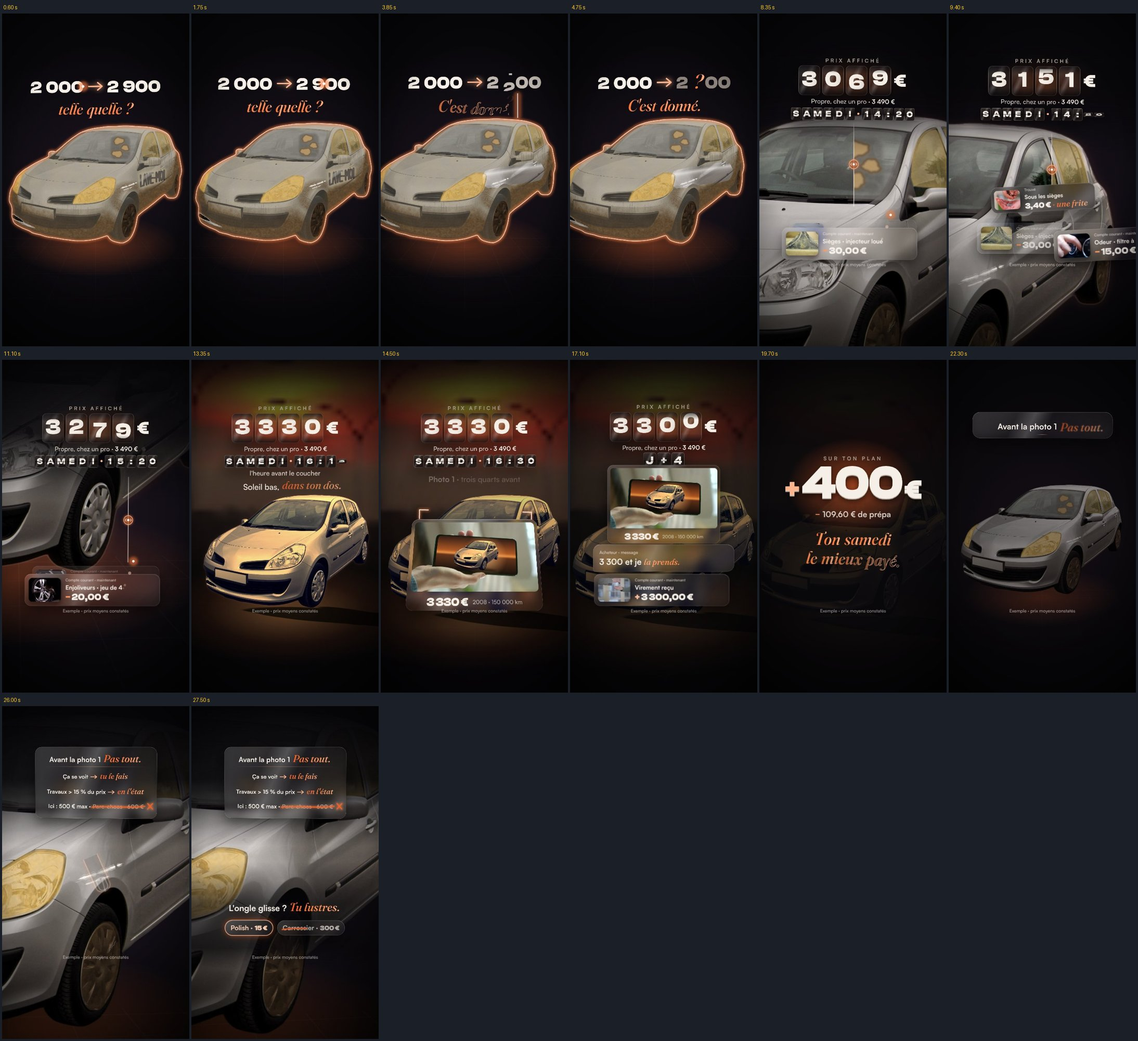
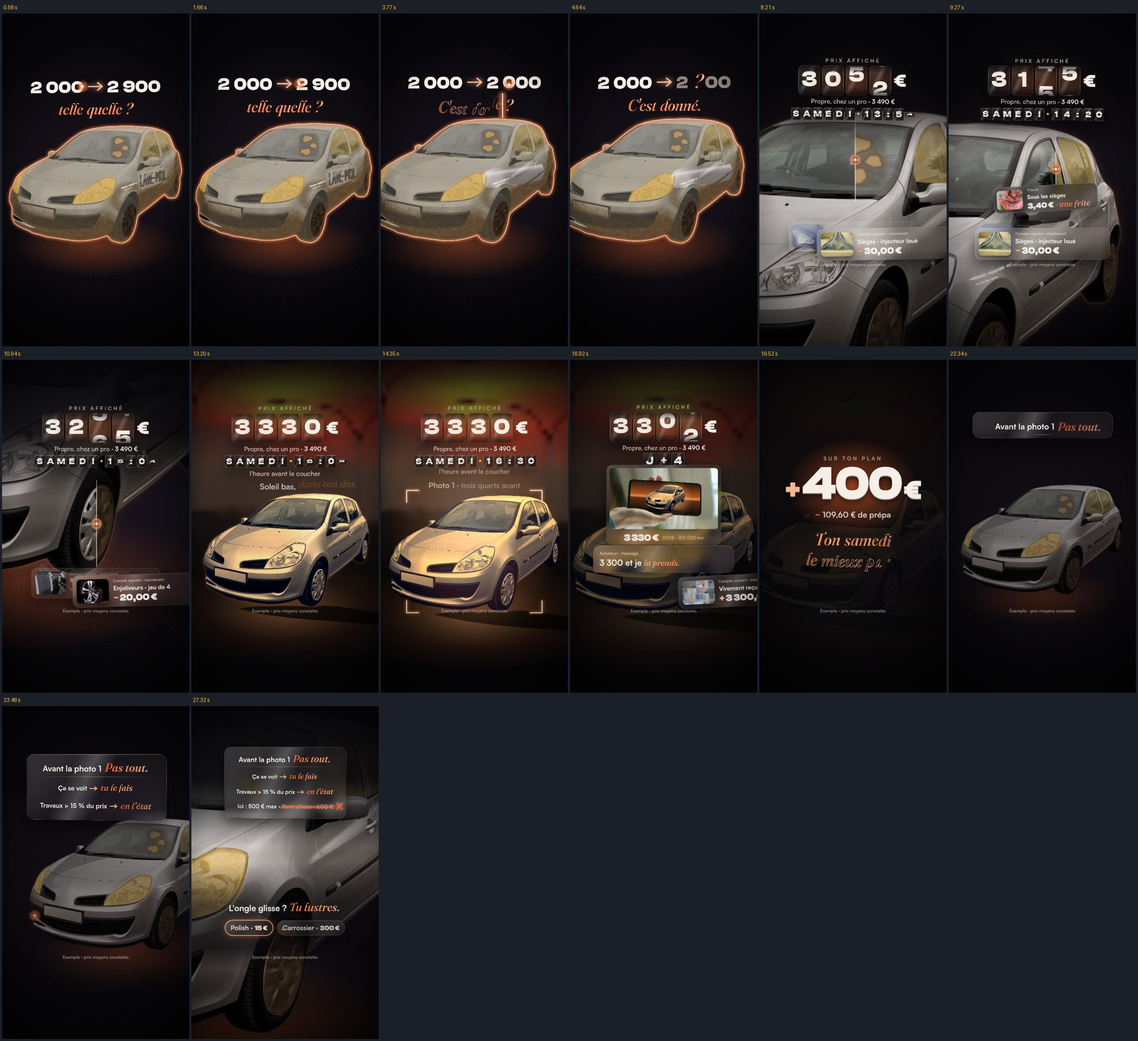
MO11-MO12 : passe finale sur la vraie voix (gestes recalés, lisibilité à 360 px, zones sûres) ; MO12 : compresseur de crête sur la voix, le limiteur ne coupe plus de 6 dB qu'à 4 endroits (85 avant)
Claude-Session: https://claude.ai/code/session_01HUWJocHZZKJjmrqnNE99x4

diff --git a/video/film-mo12/film.js b/video/film-mo12/film.js
@@ -24,9 +24,9 @@
     shake: M('onze'),                     // la bulle « Je suis devant. » vibre
     sonne: M('sonne') - 0.03,             // elle pulse sur « sonne »
     roll: M('vingt') - 0.04,              // 11:00 → 11:20 sur « vingt »
-    stamp: M('vingt') + 0.32,             // VENDUE frappe l'étiquette (avant la mesure à 3 s)
-    go: M('vendue') + 0.05,               // la C3 garde VENDUE à l'arrêt 0,65 s, puis sort par la gauche sur « vendue »
-    bf: M('beaufrere') - 0.28,            // bulle du beau-frère : elle entre par la droite pendant que la C3 sort à gauche
+    stamp: M('vendue') - 0.08,            // VENDUE frappe l'étiquette sur « vendu » (2,64 s, avant la mesure à 3 s ; voix réelle)
+    go: ME('vendue') + 0.05,              // la C3 garde VENDUE à l'arrêt 0,45 s, puis sort par la gauche une fois « vendu. » dit
+    bf: Math.max(M('beaufrere') - 0.28, ME('vendue') + 0.43),   // bulle du beau-frère : elle entre par la droite quand la C3 a presque quitté l'image (3,48 s)
     croit: M('croit'),                    // « il n'y croit pas » : sa bulle tremble (comme le gag)
     ask: M('demande') - 0.05,             // la bulle : « Les papiers ? » (« Il demande les papiers »)
     blur: M('papiers') + 0.05,            // la caméra plonge, la C3 passe en décor flou
@@ -53,8 +53,11 @@
   T.c = T.q.map((x) => x - 0.1);
   const REW = [ME('chaud') + 0.3, M('mardi') - 0.1];        // grand rembobinage jusqu'au mardi d'avant (1,1 s)
   T.flaps = REW[1] - 0.5; T.pochM = REW[1] - 0.15;
-  T.m = [0, 1, 2, 3, 4].map((i) => T.mardi + 0.45 + 0.5 * i); // cinq cartes entrent dans la pochette, une par temps
-  T.l2 = Math.max(T.l2, T.m[4] + 0.36 + 0.3);                 // la liste grandit une fois la 5e carte posée (25,16 s)
+  // cinq cartes entrent dans la pochette, une par temps (la grille de la reprise part de T.m[0] − 0,5 : audio-mo12.py) ;
+  // voix réelle : la première entre sur « Mardi » (0,22 s après au lieu de 0,45) pour que la 5e soit posée vers « deux ans »
+  // (pas plus serré : à 0,45 s, la note d'une carte tombe à 0,09 s du « rangée » de la précédente, que le mix retire)
+  T.m = [0, 1, 2, 3, 4].map((i) => T.mardi + 0.22 + 0.5 * i);
+  T.l2 = Math.max(T.l2, T.m[4] + 0.36 + 0.3);                 // la liste grandit une fois la 5e carte posée (25,06 s)
   T.eclair = M('tu') + 0.25;   // « tu le refais » : le bandeau « Contrôle · 78 € » pulse et s'allume (nom gardé pour le son)
   T.close = ME('refais') - 0.25; T.pret = ME('refais') - 0.02;
 
@@ -202,7 +205,7 @@
 
   // ---------- B : la bulle de l'acheteur, la bulle du beau-frère, la tasse ----------
   const LB = el('div', 'L', stage);
-  const BUB = { x: 250, y: 528, h: 104 };
+  const BUB = { x: 215, y: 528, h: 104, s: 1.22 };   // échelle 1,22 : « Je suis devant. » à 16 px sur un écran de 360 px
   const ripple = el('div', 'ripple', LB, `height:${BUB.h}px`);
   const bub = el('div', 'glass bub', LB, `height:${BUB.h}px`); el('div', 'sheen', bub);
   el('div', 'n', bub).textContent = 'Acheteur';
@@ -213,8 +216,8 @@
   const QK = [[0, QW[0]], ...QIN.slice(1).map((x, i) => [x, QW[i + 1], P.flip])];
   const bfW = KP.textW('700 40px Satoshi', '20 min ? ') + KP.textW('italic 500 46px Fraunces', 'Impossible.') + 70;
   const bf = el('div', 'glass bub', LB, `width:${f3(bfW)}px;height:${BUB.h}px;border-radius:34px 34px 10px 34px;transform-origin:50% 50%`); el('div', 'sheen', bf);
-  el('div', 'n', bf).textContent = 'Beau-frère';
-  el('div', 't', bf).innerHTML = '20 min ? <span class="serif" style="font-size:46px;font-weight:500">Impossible.</span>';
+  const bfN = el('div', 'n', bf); bfN.textContent = 'Beau-frère';
+  const bfT = el('div', 't', bf); bfT.innerHTML = '20 min ? <span class="serif" style="font-size:46px;font-weight:500">Impossible.</span>';
   // la tasse au trait de lumière (même épaisseur que le contour de la voiture), deux volutes à graine fixe, périodiques
   function cup(parent, id) {
     const s = sv('svg', { width: 200, height: 240, viewBox: '-40 -80 200 240', style: 'position:absolute;left:0;top:0;overflow:visible;transform-origin:0 0' }, parent);
@@ -287,7 +290,7 @@
   const svgT = sv('svg', { width: 1080, height: 1920, viewBox: '0 0 1080 1920', style: 'position:absolute;left:0;top:0;overflow:visible' }, LT); defs(svgT, 't');
   const wChaud = word(svgT, 'encore chaud.', '500 100px Fraunces', 100, 540, 1218, { italic: true, fill: 'url(#qgt)', strokeColor: '#ffb38a', sw: 1.8 });
 
-  const mention = el('div', 'abs', stage, 'left:0;width:1080px;top:1432px;text-align:center;font:500 26px Satoshi;color:rgba(246,239,231,.55);white-space:nowrap'); mention.textContent = 'Exemple · prix moyens constatés';
+  const mention = el('div', 'abs', stage, 'left:0;width:1080px;top:1428px;text-align:center;font:500 32px Satoshi;color:rgba(246,239,231,.72);white-space:nowrap'); mention.textContent = 'Exemple · prix moyens constatés';
   const rewFx = el('div', 'L', stage, 'background:repeating-linear-gradient(0deg,rgba(255,255,255,.06) 0 2px,transparent 2px 6px);mix-blend-mode:screen');
   const flash = el('div', 'L', stage, 'background:radial-gradient(60% 45% at 50% 50%,#fff1e6,rgba(255,140,80,.6) 45%,transparent 75%);mix-blend-mode:screen');
   el('div', '', stage).id = 'grain'; el('div', '', stage).id = 'vign';
@@ -370,6 +373,9 @@
         // une carte qui sort de la pochette : son texte n'entre qu'une fois la carte sortie et passée devant (a ≥ 0,95 : jamais
         // lu à travers le verre des autres, ni coupé par la carte qui descend d'une case, round 3)
         if (s.from === 'p') { const tk = sm(0.95, 1, a); for (const e of [s.d.name.e, s.d.value.e]) e.style.opacity = f3(+e.style.opacity * tk); }
+        // une carte qui glisse depuis la droite : son texte n'entre qu'une fois sorti du masque de x = 920 (plus de « en cour »
+        // coupé à 9,7 s) ; il glisse avec la carte
+        if (s.from === 'r') { const tk = sm(0.75, 0.92, a); for (const e of [s.d.name.e, s.d.value.e]) e.style.opacity = f3(+e.style.opacity * tk); }
         // la carte se replie en bandeau en passant le liseré de la pochette (k de 2 à 3) : son texte sort au début du
         // repli et revient une fois le bandeau rangé (règle du conteneur qui se transforme, comme au mardi)
         s.fold = sm(2.02, 2.2, k) * (1 - sm(2.8, 2.98, k));
@@ -420,7 +426,7 @@
     const bw = track(st, QK), bPres = pres * (1 - sm(T.phone - 0.05, T.phone + 0.2, st));
     set(bub, bPres);
     bub.style.width = `${f3(bw)}px`;
-    bub.style.transform = `translate(${f3(BUB.x + shake)}px,${f3(BUB.y - 70 * bOut + 40 * (1 - pres))}px) scale(${f3((1 + 0.1 * pulse) * (1 - 0.12 * bOut) * (0.92 + 0.08 * pres))})`;
+    bub.style.transform = `translate(${f3(BUB.x + shake)}px,${f3(BUB.y - 70 * bOut + 40 * (1 - pres))}px) scale(${f3(BUB.s * (1 + 0.1 * pulse) * (1 - 0.12 * bOut) * (0.92 + 0.08 * pres))})`;
     const qPop = Math.max(...QIN.slice(1).map((x) => bump(st, x, 0.22)));
     if (qPop > 0) bub.style.transform += ` scale(${f3(1 + 0.04 * qPop)})`;
     qEl.forEach((e, j) => {
@@ -430,15 +436,16 @@
     });
     const rp = clamp((hk - T.sonne) / 0.5, 0, 1);
     set(ripple, (rp > 0 && rp < 1 ? 0.9 * (1 - rp) : 0) * bPres); ripple.style.width = `${f3(bw)}px`;
-    ripple.style.transform = `translate(${f3(BUB.x)}px,${BUB.y}px) scale(${f3(1 + 0.5 * rp)})`;
+    ripple.style.transform = `translate(${f3(BUB.x + bw * (BUB.s - 1) / 2)}px,${f3(BUB.y - BUB.h * (BUB.s - 1) / 2)}px) scale(${f3(BUB.s * (1 + 0.5 * rp))})`;
     const bfa = S(hk, T.bf, P.card);
     set(bf, sm(T.bf - 0.02, T.bf + 0.06, hk));
     const btr = bump(t, T.croit, 0.32), bjx = noise(24, t * 11) * 8 * btr;   // temps du film : le tremblement ne rejoue pas au retour court
     const BFS = 1.35, bfX = 540 - bfW / 2 + 380 * (1 - bfa) + bjx;
     bf.style.transform = `translate(${f3(bfX)}px,900px) rotate(${f3(-4 - 6 * (1 - bfa) + noise(23, t * 9) * 2.2 * btr)}deg) scale(${BFS})`;
     clipX(bf, bfX + bfW * (1 - BFS) / 2, bfX + bfW * (1 + BFS) / 2 + 10, BFS);
+    { const k = f3(sm(0.72, 0.9, bfa)); bfN.style.opacity = k; bfT.style.opacity = k; }   // texte entier une fois sorti du masque (jamais « Impossib »)
     const cOut = S(st, T.c[0] - 0.15, P.push);
-    paintCup(cupA, { x: 700 + 120 * cOut, y: 542 + 30 * (1 - pres) - 40 * cOut, sc: 0.86 * (1 - 0.2 * cOut) * (0.9 + 0.1 * pres), k: pres * (1 - sm(T.c[0] - 0.1, T.c[0] + 0.15, st)), t });
+    paintCup(cupA, { x: 745 + 120 * cOut, y: 542 + 30 * (1 - pres) - 40 * cOut, sc: 0.86 * (1 - 0.2 * cOut) * (0.9 + 0.1 * pres), k: pres * (1 - sm(T.c[0] - 0.1, T.c[0] + 0.15, st)), t });
 
     // M : mardi, la pochette se remplit
     const mOut = t < LOOP ? 0 : S(t, LOOP - 0.02, P.push), mK = sm(REW[1] - 0.3, REW[1] - 0.1, t) * (1 - sm(LOOP + 0.22, LOOP + 0.36, t));   // il monte et rapetisse d'abord, puis disparaît
@@ -457,7 +464,8 @@
           ring: [S(t, t0 + 0.05, P.draw), sm(t0 + 0.04, t0 + 0.1, t) * (1 - sm(t0 + 0.5, t0 + 0.7, t))] });
         // la carte se replie en bandeau en tombant sur les autres : son texte sort au début du repli et ne revient qu'à la
         // fin de la chute (dr ≥ 0,9 : moins de 35 px au-dessus de sa place, jamais sur le texte du bandeau d'au-dessus)
-        const dk = 1 - sm(0.02, 0.22, dr) * (1 - sm(0.9, 1, dr));
+        // et à l'entrée par la droite, il n'apparaît qu'une fois sorti du masque de x = 920 (plus de « Situation adr » coupé)
+        const dk = (1 - sm(0.02, 0.22, dr) * (1 - sm(0.9, 1, dr))) * sm(0.75, 0.92, a);
         if (dk < 0.999) for (const e of [d.name.e, d.value.e]) e.style.opacity = f3(+e.style.opacity * dk);
         // « Contrôle : » (pendant que la carte grise entre en haut), puis « tu le refais » : le bandeau du contrôle pulse,
         // « 6 mois » grossit

diff --git a/video/film-mo11/film.js b/video/film-mo11/film.js
@@ -25,14 +25,21 @@
     lav: ME('heures') - 0.05,                                                  // le lavage part quand « treize heures » finit
     si: M('sieges') - 0.33, od: M('odeur') - 0.2, en: LT('enjo').t - 0.2,      // l'arrêt de la ligne tombe sur le mot
     sun0: M('etla') - 0.3, sun1: ME('soleil') + 0.02, sbas: M('etla') + 0.4, heure: M('soleil') - 0.35,
-    vf: ME('soleil') - 0.04, lab1: M('photo') - 0.06, click: M('un') - 0.1,
-    ann: M('un') + 0.16, j4: M('un') + 0.3, msg1: ME('un') + 0.5, msg2: M('n400') - 1.25,   // « Quatre jours. » retiré
+    vf: ME('soleil') - 0.04, lab1: M('photo') - 0.06, click: Math.max(M('un') - 0.1, M('photo') + 0.27),
+    msg1: ME('un') + 0.5, msg2: M('n400') - 1.25,                       // « Quatre jours. » retiré
     bubble: M('n400') - 1.0, credit: M('n400') - 0.12,                                         // (round 2) : J+4 le dit
     big: M('plus') - 0.12, prepa: M('plus') + 0.25,
     pay1: M('ton2') - 0.03, pay2: M('mieux') - 0.2,
     ceux: M('ceux') - 0.04, pas: M('pas') - 0.04,
     nail: M('glisse') + 0.04, verd: ME('rayure') + 0.06, pol: M('quinze') + 0.04, carr: M('polish') - 0.03,
   };
+  // passe finale (voix de Simon) : « Photo » et « 1 » ne sont plus qu'à 0,1 s l'un de l'autre. Le déclic attend
+  // 0,27 s après « Photo » (il tombe dans « 1, ») et l'annonce garde ses 0,26 s après lui : l'étiquette « Photo 1 · trois
+  // quarts avant » reste lisible 0,4 s au lieu de 0,25. « l'heure avant le coucher » entrait avec « Soleil bas, » :
+  // elle reprend ses 0,32 s de retard sur lui (sur « soleil »). Les palettes de J+4 (T.j4 + 0,16 → + 0,34) finissent
+  // plus de 0,12 s avant « Belle photo… » : sinon audio-mo11.py retire trois de leurs quatre tics pour collision.
+  T.ann = T.click + 0.26; T.j4 = T.click + 0.34; T.msg1 = Math.max(T.msg1, T.j4 + 0.48);
+  T.heure = Math.max(T.heure, T.sbas + 0.6);
   T.ph = (T.lav + T.si) / 2; T.ra = (T.od + T.en) / 2;
   T.gag = (T.si + 0.7 + T.od) / 2 + 0.05;
   T.l = [ME('tout') + 0.02, ME('tout') + 0.52, ME('tout') + 1.02];
@@ -425,16 +432,24 @@
   // ---------- le renversement : la carte « Avant la photo 1 », puis l'ongle et le verdict ----------
   const LC = el('div', 'L', stage);
   const fit = (parts, max) => { let k = 1; const w = () => parts.reduce((s, [txt, font, size]) => s + (mcv.font = font.replace('SZ', size * k), mcv.measureText(txt).width), 0); while (w() > max) k -= 0.02; return k; };
+  // passe finale, lisibilité à 360 px : dans les notifications, la ligne de l'app passe de 22 à 26 px (7 → 9 px au
+  // téléphone) et le titre de 34 à 40 px au plus, réduit d'un seul facteur pour que le plus long tienne dans 500 px
+  const kN = Math.min(...[...COUPS.map((c) => c.ti), 'Virement reçu'].map((x) => fit([[x, '700 SZpx Satoshi', 40]], 500)));
+  for (const d of [...debs.map((x) => x.n.d), credit.d]) {
+    const ap = d.querySelector('.app'), ti = d.querySelector('.ti'), am = d.querySelector('.am');
+    ap.style.cssText = 'font-size:26px;line-height:1.15;margin-bottom:2px;color:rgba(246,239,231,.8)';
+    ti.style.cssText = `font-size:${f3(40 * kN)}px;line-height:1.15`; am.style.lineHeight = '1.05';
+  }
   const ARW = '<svg width="46" height="26" viewBox="0 0 46 26" style="display:inline-block;vertical-align:middle;margin:0 14px 6px"><path d="M2 13 H40 M29 3 L42 13 L29 23" stroke="#ffb38a" stroke-width="4.5" fill="none" stroke-linecap="round" stroke-linejoin="round"/></svg>';
   const cardW = el('div', 'abs', LC, 'left:0;top:0;width:1080px;height:1920px;transform-origin:540px 300px');
-  const card = el('div', 'glass card', cardW, 'left:140px;top:300px;width:800px;height:470px'); el('div', 'sheen', card);
+  const card = el('div', 'glass card', cardW, 'left:150px;top:300px;width:780px;height:470px'); el('div', 'sheen', card);
   const kT = fit([['Avant la photo 1', '700 SZpx Satoshi', 46], ['Pas tout.', 'italic 500 SZpx Fraunces', 66]], 640);
   const cT = el('div', 'abs', cardW, `left:140px;top:334px;width:800px;text-align:center;white-space:nowrap;font:700 ${f3(46 * kT)}px Satoshi`);
   const cT1 = el('span', '', cT, 'display:inline-block'); cT1.textContent = 'Avant la photo 1';
   const cT2 = el('span', 'serif', cT, `display:inline-block;font-size:${f3(66 * kT)}px;margin-left:14px`); cT2.textContent = 'Pas tout.';
   const rule = el('div', 'abs', cardW, 'left:200px;top:428px;width:680px;height:2px;background:linear-gradient(90deg,transparent,rgba(255,179,138,.6),transparent);transform-origin:50% 50%');
   const LINES = [['Ça se voit', 'tu le fais'], ['Travaux > 15 % du prix', "en l'état"], ['Ici : 500 € max ·', 'Pare-chocs · 600 €']];
-  const kL = Math.min(...LINES.map(([a, b], i) => fit([[a, '700 SZpx Satoshi', 40], [b, (i < 2 ? 'italic 500 SZpx Fraunces' : '700 SZpx Satoshi'), i < 2 ? 54 : 40], ['→→', '700 SZpx Satoshi', 40]], 700)));
+  const kL = Math.min(...LINES.map(([a, b], i) => fit([[a, '700 SZpx Satoshi', 40], [b, (i < 2 ? 'italic 500 SZpx Fraunces' : '700 SZpx Satoshi'), i < 2 ? 54 : 40], ['→→', '700 SZpx Satoshi', 40]], 720)));
   const lines = LINES.map(([a, b], i) => {
     const r = el('div', 'abs', cardW, `left:140px;top:${452 + i * 100}px;width:800px;text-align:center;white-space:nowrap;font:700 ${f3(40 * kL)}px Satoshi;line-height:76px`);
     const s1 = el('span', '', r, 'display:inline-block'); s1.innerHTML = i < 2 ? a + ARW : a;
@@ -457,7 +472,7 @@
   const pSw = el('div', 'abs', pPol, 'left:0;top:0;width:100%;height:100%;border-radius:999px;mix-blend-mode:screen');   // le lustre passe
   const pcL = sv('path', { d: 'M4 24 C 120 8, 260 30, 396 12', stroke: '#ff5a1f', 'stroke-width': 7, fill: 'none', 'stroke-linecap': 'round', 'stroke-dasharray': '420 420', 'stroke-dashoffset': 420 }, pcSvg);
 
-  const mention = el('div', 'abs', stage, 'left:0;width:1080px;top:1430px;text-align:center;font:500 26px Satoshi;color:rgba(246,239,231,.55)'); mention.textContent = 'Exemple · prix moyens constatés';
+  const mention = el('div', 'abs', stage, 'left:0;width:1080px;top:1428px;text-align:center;font:500 28px Satoshi;color:rgba(246,239,231,.66)'); mention.textContent = 'Exemple · prix moyens constatés';
   const rewFx = el('div', 'L', stage, 'background:repeating-linear-gradient(0deg,rgba(255,255,255,.06) 0 2px,transparent 2px 6px);mix-blend-mode:screen');
   const flash = el('div', 'L', stage, 'background:radial-gradient(60% 45% at 50% 52%,#fff1e6,rgba(255,140,80,.6) 45%,transparent 75%);mix-blend-mode:screen');
   const grain = el('div', '', stage); grain.id = 'grain'; el('div', '', stage).id = 'vign';
@@ -813,7 +828,7 @@
     const cdr = sm(T.card, T.card + 0.8, t);                                       // dérive lente : la carte ne se fige pas
     // parallaxe : la carte tourne en sens inverse de l'orbite (− 0,5 ×) et monte de 12 px à chaque règle (la voiture, 6)
     const cRy = -0.5 * (c.ry - 1) * cIn * (1 - cmp), cNy = -12 * lineNudge(t) * (1 - cmp);
-    cardW.style.transform = `translateY(${f3((1 - cIn) * 240 - 64 * cmp + 90 * cOut + cNy - 10 * cdr * (1 - cmp) * noise(31, t * 0.35))}px) perspective(1500px) rotateX(${f3((1 - cIn) * 24 + 1.6 * cdr * noise(32, t * 0.3))}deg) rotateY(${f3(cRy + 2.2 * cdr * noise(33, t * 0.27))}deg) scale(${f3((0.94 + 0.06 * cIn) * (1 - 0.12 * cmp) * (1 - 0.45 * cOut) * (1 + 0.012 * cdr * (1 - cmp)))})`;
+    cardW.style.transform = `translateY(${f3((1 - cIn) * 240 - 64 * cmp + 90 * cOut + cNy - 10 * cdr * (1 - cmp) * noise(31, t * 0.35))}px) perspective(1500px) rotateX(${f3((1 - cIn) * 24 + 1.6 * cdr * noise(32, t * 0.3))}deg) rotateY(${f3(cRy + 2.2 * cdr * noise(33, t * 0.27))}deg) scale(${f3((0.94 + 0.06 * cIn) * (1 - 0.04 * cmp) * (1 - 0.45 * cOut) * (1 + 0.012 * cdr * (1 - cmp)))})`;
     const tt1 = S(t, T.ceux + 0.1, P.rise), tt2 = S(t, T.pas, P.rise);
     cT1.style.opacity = f3(tt1); cT1.style.transform = `translate(${f3(hT2 * (1 - tt2))}px,${f3((1 - tt1) * 22)}px)`;
     cT2.style.opacity = f3(tt2); cT2.style.transform = `translate(${f3(hT2 * (1 - tt2))}px,${f3((1 - tt2) * 26)}px)`; cT2.style.filter = `blur(${f3((1 - tt2) * 6)}px)`;   // round 3 : glisse avec cT1

diff --git a/video/film-mo12/index.html b/video/film-mo12/index.html
@@ -50,7 +50,7 @@ html,body{width:1080px;height:1920px;overflow:hidden;background:var(--bg0)}
 .kp-badge{position:absolute;left:0;top:0;transform-origin:0 0}
 .kp-badge svg{position:absolute;left:0;top:0;overflow:visible}
 .kp-num{position:absolute;left:0;top:22px;width:100%;text-align:center;font:700 46px Clash;line-height:46px;font-variant-numeric:tabular-nums}
-.kp-unit{position:absolute;left:0;top:66px;width:100%;text-align:center;font:700 26px Satoshi;line-height:26px;color:rgba(246,239,231,.75);letter-spacing:.04em}
+.kp-unit{position:absolute;left:0;top:65px;width:100%;text-align:center;font:700 28px Satoshi;line-height:28px;color:rgba(246,239,231,.92);letter-spacing:.04em}
 .kp-dur{position:absolute;left:0;top:0;font:700 38px Clash;line-height:38px;color:var(--o3);white-space:nowrap;transform-origin:0 50%}
 .kp-name{position:absolute;left:0;top:0;font:700 48px Satoshi;line-height:48px;white-space:nowrap;transform-origin:0 0}
 .kp-value{position:absolute;left:0;top:0;font:700 64px Clash;line-height:64px;white-space:nowrap;transform-origin:0 0;font-variant-numeric:tabular-nums}

diff --git a/video/scripts/audio-mo12.py b/video/scripts/audio-mo12.py
@@ -399,6 +399,10 @@ if not VO_ON:
 mus_st = np.stack([mus, mus], 1)
 # voix : présence 2–5 kHz légèrement remontée
 vo = vo + bp(vo, 2000, 5000, 2) * (db(3) - 1)
+# voix réelle de Simon : crêtes de consonnes 12 à 15 dB au-dessus du corps de la phrase ; un compresseur de crête sur la
+# voix seule (4:1 au-dessus de −21 dB sous la crête, 2 ms / 80 ms) évite que le limiteur général ne travaille tout le film
+_vpk = np.abs(vo).max() + 1e-9
+VO_GDB = pcomp_gain(vo / _vpk * db(-3), thr=-24, ratio=4, att=0.002, rel=0.08, look=0.003); vo = vo * db(VO_GDB)
 vo_st = np.stack([vo, vo], 1)
 vo_st = vo_st / (np.abs(vo_st).max() + 1e-9) * db(-3)
 mix = vo_st + mus_st + fx

diff --git a/video/docs/review_log-mo12.md b/video/docs/review_log-mo12.md
@@ -729,3 +729,36 @@ recadrages à la définition native, et le test téléphone refait (`renders/pho
 - Son : tout le réglage (rôles, étages de crête) ne vaut que sans voix ; à remesurer et à écouter avec la vraie prise.
 - Planches à 0,1 s et notes : pas refaites.
 - Montage 540p du film entier et `qa_video.py` dessus : à refaire (environ 3 h de rendu à la charge actuelle).
+
+## Passe finale (voix réelle, 10 octobre 2026)
+
+| hook | lisibilite | zones_sures | mouvement | variete | marque | voix | son | recette |
+|---|---|---|---|---|---|---|---|---|
+| 8 | 8 | 9 | 7 | 7 | 8 | 8 | 6 | 8 |
+
+Planches regardées : `renders/review/mo12-final-at.jpg` (14 instants, avant les corrections), `mo12-final-b` à `-f.jpg`,
+`renders/phone-mo12.png` (10 instants à 360 px). Aucune erreur `PAGEERR` ni `CONSOLE`. Boucle : écart moyen 0,17 sur 255
+entre 0 et 30,79 s.
+
+**Corrections** (`film-mo12/film.js`, plus une ligne de `film-mo12/index.html`)
+- *Hook décalé par la vraie voix* : VENDUE frappait à 2,42 s, avant « vendu » (2,72 s), et la C3 repartait 0,35 s plus tard.
+  `stamp = M('vendue') − 0,08` (2,64 s), `go = ME('vendue') + 0,05` (3,10 s) : VENDUE reste à l'arrêt de 2,64 à 3,10 s.
+  La bulle du beau-frère attend que la C3 ait presque quitté l'image (`bf` = 3,48 s, posée sur « beau-frère »).
+- *Mardi* : la 5e carte n'était posée qu'à 25,0 s, « 2 ans pour rouler » entrait vers 25,45 s (« deux ans » : 24,78 s).
+  `T.m = mardi + 0,22 + 0,5 i` (la première carte entre sur « Mardi ») : la liste grandit à 25,06 s, la ligne se lit à
+  25,25 s. Toujours une carte par temps : un essai à 0,45 s faisait retirer quatre « rangée » par la règle de collision.
+- *Lisibilité à 360 px* : bulle de l'acheteur à l'échelle 1,22 (« Je suis devant. » et les questions à 16 px, « Acheteur »
+  à 12 px), `BUB.x` 215 et tasse à x = 745 pour garder le groupe centré (219 → 845) ; mention en 32 px et opacité 0,72
+  (10,7 px) ; unité des anneaux en 28 px, opacité 0,92 (`.kp-unit`).
+- *Textes coupés par le masque de x = 920* (« en cour » à 9,7 s, « Situation adr » à 22,95 s, « Impossib » à 3,6 s) :
+  le texte d'une carte ou d'une bulle qui entre par la droite n'apparaît qu'une fois sorti du masque, en glissant avec elle.
+- Régénérés : `film-mo12/events.json`, `audio/mix-mo12.wav`, `docs/mix_report-mo12.txt` (65 bruitages, aucun retiré,
+  cartes du mardi sur les temps).
+
+**Ce qui reste**
+- Son (pas modifié, pas écouté) : −14,8 LUFS, −4,0 dBTP avant AAC ; normalisation + 11,2 dB, limiteur à plus de 3 dB sur
+  36 % du film et 85 coups à plus de 6 dB, comme dans le mix livré avec la voix. Les étages de crête de `audio-mo12.py`
+  ont été réglés sans voix : à reprendre (et à écouter) avant la livraison.
+- « 2 ans pour rouler » arrive 0,45 s après « deux ans » ; au mardi, la carte qui tombe passe encore 0,1 s sur la liste.
+- Variété (7,8 → 17 s) et ouverture (rien de neuf avant les rouleaux de 2,06 s) : inchangées.
+- Montage 1080p, `qa_video.py` et planches à 0,1 s : pas refaits.

diff --git a/video/docs/review_log-mo11.md b/video/docs/review_log-mo11.md
@@ -865,3 +865,35 @@ Au repos, rien ne bouge.
 - **« Soleil bas, »** : entre 0,28 s plus tard (12,88 s, sur « tu attends ») et descend de 22 px à sa place au lieu de
   monter de 24. Le toit passe 10 px sous la ligne au repos : en montant, le texte entrait dessus. Recadrages pleine
   définition de 12,94 à 13,4 s : il ne le touche plus.
+
+## Passe finale (voix réelle) (10 octobre 2026)
+
+Prise de Simon (`takeA.mp3`, 30,6 s, boucle à 28,12 s). Contrôle aux 14 instants des repères (`mo11-final-at.jpg`,
+`renders/phone-mo11.png`, 360 px), puis `mo11-final-at2.jpg` et `-at3.jpg` après correction.
+
+| hook | lisibilite | zones_sures | mouvement | variete | marque | voix | son | recette |
+|---|---|---|---|---|---|---|---|---|
+| 8 | 8 | 8 | 7 | 8 | 8 | 8 | 7 | 8 |
+
+Corrections (`film-mo11/film.js` seul) :
+
+- **« Photo 1 »** : la voix ne laisse que 0,1 s entre « Photo » et « 1 ». Le déclic tombait à 14,25 s et l'annonce
+  couvrait l'étiquette dès 14,45 s (lisible 0,25 s). Déclic à `max(un − 0,1, photo + 0,27)` = 14,52 s (dans « 1, »),
+  annonce à déclic + 0,26 (14,78), J+4 à déclic + 0,34. L'étiquette se lit de 14,25 à 14,7 s.
+- **« Belle photo… »** passe à `max(fin de « 1 » + 0,5, J+4 + 0,48)` = 15,34 s : les quatre tics de J+4 restent dans le
+  mix (à 15,26 s, trois étaient retirés pour collision).
+- **« l'heure avant le coucher »** entrait avec « Soleil bas, » (12,85 s) : elle reprend ses 0,32 s de retard (13,23 s,
+  sur « soleil »).
+- **Lisibilité à 360 px** : dans les notifications, la ligne « Compte courant · maintenant » passe de 22 à 26 px
+  (opacité 0,7 → 0,8) et le titre de 34 à 40 px. Les lignes de la carte « Avant la photo 1 » passent de 36,8 à
+  38,4 px, et la carte ne se replie plus que de 4 % pendant le verdict (12 % avant) : 12,3 px au téléphone à 26,9 s,
+  contre 10,8. La mention passe de 26 à 28 px, opacité 0,55 → 0,66.
+- **Zones sûres** : le verre de la carte va de 150 à 930 (140 → 940 avant ; en tournant, il passait 940 de 10 px).
+  Les cartes au repos sont centrées sur x = 540 (notifications 150 → 930, carte 164 → 913 à 26,9 s), le ✗ reste dans
+  le verre (x ≈ 912).
+- `events.mjs` puis `audio-mo11.py` relancés : −14,5 LUFS, −4,0 dBTP avant AAC, 5 retraits pour collision (comme avant
+  la passe). Boucle : 30,583 s contre l'image 0, 0,01 / 255 (270 px).
+
+Reste : le mix de la prise réelle n'a que 9,7 % de son énergie entre 1 et 5 kHz (25,4 % avec la voix provisoire) :
+voix à écouter sur un haut-parleur de téléphone. Mouvement de 16,2 à 16,7 s non remesuré. Le passage de 14,45 à 15,45 s
+(annonce, J+4, messages) et l'entrée du virement sortent encore par les côtés en mouvement, comme accepté au round 3.
